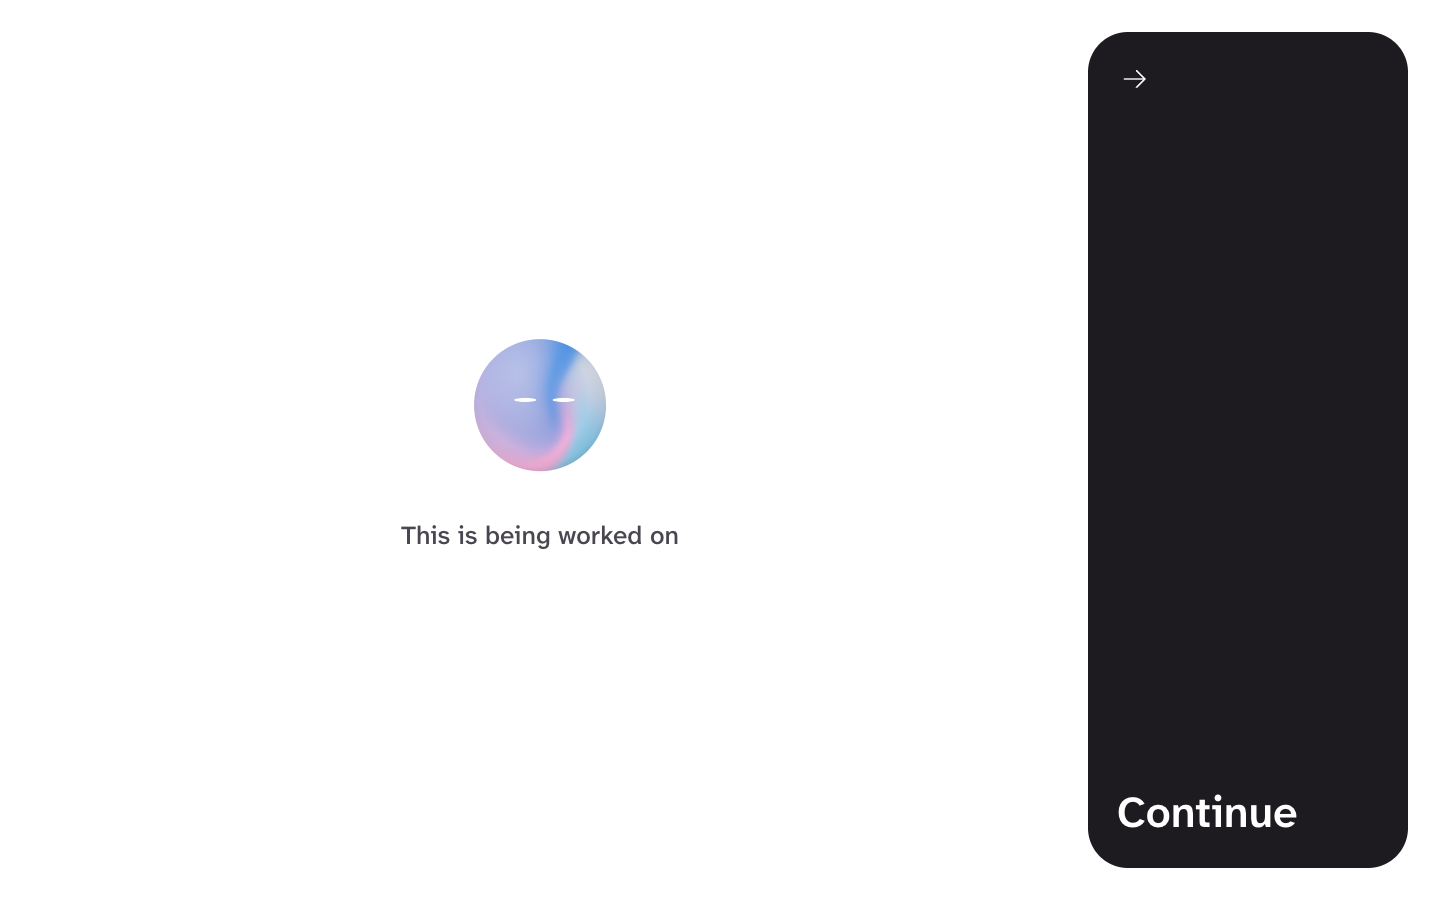
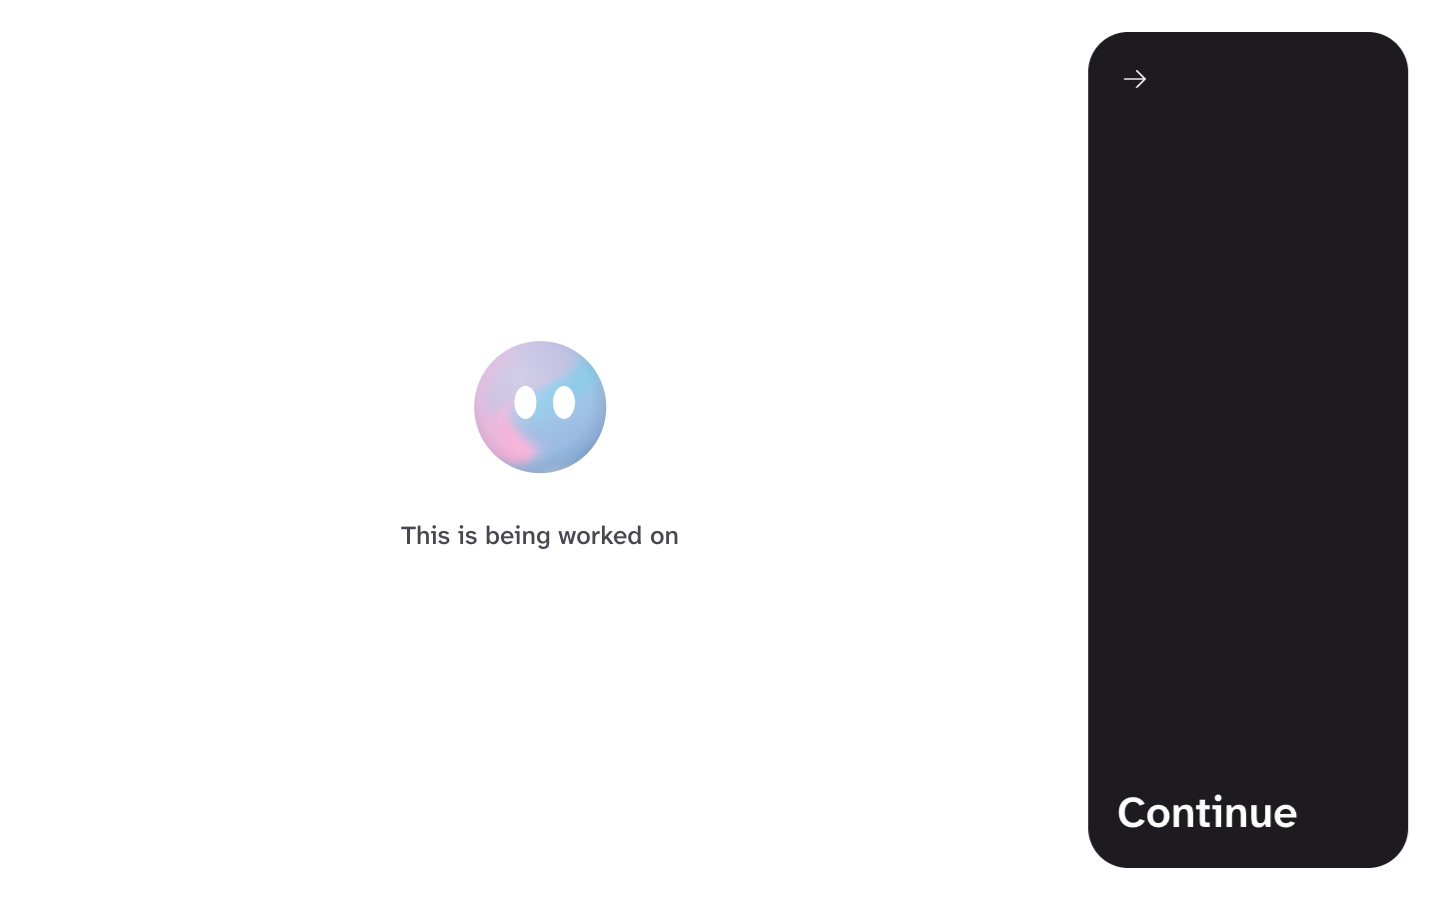
feat(main): look, then make a sound to select
A look closes the dwell line round a card and waits (the gaze engine's
confirm mode); a short vocal sound selects it, so looking around never
selects. src/soundSelect.ts measures the voice band with the browser's
noise suppression; the noise floor is the 20th percentile of the last
2 s, and a sound must rise 12 dB above it out of a quiet moment for
60 ms. While the partner is heard or the device speaks, or without a
microphone, looks select by dwell. Look + sound is the new default;
settings saved before it move to it once.

Changed region(s): [[0.3125, 0.3733, 0.4375, 0.5289]]

diff --git a/main/app/src/App.tsx b/main/app/src/App.tsx
@@ -50,6 +50,7 @@ import { PagedStrip, pageList, type Strip } from './Pager.tsx';
 import { OptionsFace } from './OptionsFace.tsx';
 import { OnboardingPage, onboardingSlots, tallCard } from './Onboarding.tsx';
 import { GuideOrb } from './GuideOrb.tsx';
+import { startSoundSelect, type SoundSelect } from './soundSelect.ts';
 import { cancelRun, eyesDrive, eyesStatus, prepareRun, startEyes, useEyesStatus } from './eyes/session.ts';
 import { Again, ArrowRight, Back, Backspace, Check, Erase, Close, Hand, MenuLines, Mic, Options, Sparkle, Speaker, StopSquare } from './icons.tsx';
 
@@ -68,10 +69,13 @@ function loadStored(): State {
   try {
     const raw = localStorage.getItem(STORE);
     if (!raw) return skip ? { ...INITIAL_STATE, screen: { kind: 'talk' } } : INITIAL_STATE;
-    const saved = JSON.parse(raw) as { settings?: Partial<Settings>; setupDone?: boolean };
+    const saved = JSON.parse(raw) as { settings?: Partial<Settings>; setupDone?: boolean; selection?: number };
+    const settings = migrate({ ...INITIAL_STATE.settings, ...saved.settings });
+    // Look + sound became the default on 2026-11-08; settings saved before then carry the old Dwell default.
+    if (saved.selection !== 2) { settings.mode = INITIAL_STATE.settings.mode; store({ selection: 2 }); }
     return {
       ...INITIAL_STATE,
-      settings: migrate({ ...INITIAL_STATE.settings, ...saved.settings }),
+      settings,
       screen: saved.setupDone || skip ? { kind: 'talk' } : INITIAL_STATE.screen,
     };
   } catch {
@@ -91,7 +95,7 @@ function setupDone(): boolean {
   try { return Boolean(JSON.parse(localStorage.getItem(STORE) ?? '{}').setupDone); } catch { return false; }
 }
 
-function store(patch: { settings?: Settings; setupDone?: boolean }): void {
+function store(patch: { settings?: Settings; setupDone?: boolean; selection?: number }): void {
   try {
     const current = JSON.parse(localStorage.getItem(STORE) ?? '{}');
     localStorage.setItem(STORE, JSON.stringify({ ...current, ...patch }));
@@ -263,15 +267,30 @@ export function App() {
   }, [noMatch]);
   const second = useSettled('delete', secondKey(slots.second), slots.second, looked, syncs);
 
+  // Look + sound (owner, 2026-11-08): a look closes the line round a card and a sound selects it.
+  // While the partner is heard or the device speaks, a sound could be theirs or its own, so looks
+  // select by dwell then; and without a microphone, always.
+  const [micReady, setMicReady] = useState(false);
+  useEffect(() => {
+    if (settings.mode !== 'confirm') return;
+    let sound: SoundSelect | null = null;
+    let stopped = false;
+    const onSound = () => { noteKeyActivation(false); engine.confirm(); };
+    const enabled = () => stateRef.current.live.kind !== 'listening' && stateRef.current.live.kind !== 'speaking';
+    startSoundSelect(onSound, enabled).then((s) => { if (stopped) s.stop(); else { sound = s; setMicReady(true); } }, () => setMicReady(false));
+    return () => { stopped = true; sound?.stop(); setMicReady(false); };
+  }, [settings.mode]);
+  const soundSelects = settings.mode === 'confirm' && micReady && live.kind !== 'listening' && live.kind !== 'speaking';
+
   // Settings → engine, document and audio (before paint, so a new text size never shows unfitted).
   useLayoutEffect(() => {
-    engine.configure({ mode: settings.mode, noiseSigma: settings.noise ? 0.06 : 0 });
+    engine.configure({ mode: soundSelects ? 'confirm' : 'dwell', noiseSigma: settings.noise ? 0.06 : 0 });
     setDwellClasses(settings.letterDwell, settings.controlDwell, screen.kind === 'talk', settings.repeat);
     document.documentElement.style.setProperty('--scale', String(settings.textScale));
     document.documentElement.toggleAttribute('data-large', settings.textScale > 1);
     configureSound({ level: settings.sound, volume: settings.volume });
     store({ settings });
-  }, [settings, screen.kind]);
+  }, [settings, screen.kind, soundSelects]);
 
   // Card text fits its card after every render (cheap when nothing changed), on resize and once
   // the webfont arrives.

diff --git a/main/app/src/soundSelect.ts b/main/app/src/soundSelect.ts
@@ -1,0 +1,82 @@
+/**
+ * Selecting by sound (owner, 2026-11-08): the eyes point, a sound commits. In the gaze engine's
+ * confirm mode a steady look closes the dwell line round a card and waits; any short vocal sound
+ * (an "ah", a hum, a word) then selects it.
+ *
+ * Background noise. The microphone runs with the browser's noise suppression and echo
+ * cancellation, and only the voice band (150 Hz to 3 kHz) is measured. The noise floor is the
+ * level the room sits at most of the time (the 20th percentile of the last 2 s), so a fan, traffic
+ * or a steady hum set the baseline instead of triggering, and a voice cannot drag it up. A sound counts only when it rises ONSET_DB
+ * above that floor out of a quiet moment and stays there for ONSET_MS; after it, the level must
+ * settle before the next one counts, so one long sound selects once.
+ */
+
+/** How far above the noise floor a sound must rise, and for how long. */
+const ONSET_DB = 12;
+const ONSET_MS = 60;
+/** Quiet (within QUIET_DB of the floor) needed just before a sound and after one. */
+const QUIET_DB = 6;
+const QUIET_BEFORE_MS = 150;
+const SETTLE_MS = 150;
+/** Below this level nothing counts, however quiet the room. */
+const MIN_DB = -62;
+const FRAME_MS = 20;
+/** The noise floor: this percentile of the last FLOOR_FRAMES levels. */
+const FLOOR_FRAMES = 2000 / FRAME_MS;
+const FLOOR_PERCENTILE = 0.2;
+
+export type SoundSelect = { stop(): void };
+
+/**
+ * Listen for sounds and call `onSound` at each one, while `enabled()` is true. Rejects when the
+ * microphone is unavailable or blocked.
+ */
+export async function startSoundSelect(onSound: () => void, enabled: () => boolean): Promise<SoundSelect> {
+  const stream = await navigator.mediaDevices.getUserMedia({ audio: { echoCancellation: true, noiseSuppression: true, autoGainControl: false } });
+  const ctx = new AudioContext();
+  const source = ctx.createMediaStreamSource(stream);
+  const highpass = new BiquadFilterNode(ctx, { type: 'highpass', frequency: 150 });
+  const lowpass = new BiquadFilterNode(ctx, { type: 'lowpass', frequency: 3000 });
+  const analyser = new AnalyserNode(ctx, { fftSize: 1024 });
+  source.connect(highpass).connect(lowpass).connect(analyser);
+  const samples = new Float32Array(analyser.fftSize);
+
+  const recent: number[] = [];
+  let quietFor = 0;
+  let loudFor = 0;
+  let armed = true;
+  const tick = () => {
+    if (ctx.state === 'suspended') void ctx.resume();
+    analyser.getFloatTimeDomainData(samples);
+    let sum = 0;
+    for (const v of samples) sum += v * v;
+    const db = 10 * Math.log10(sum / samples.length + 1e-12);
+    if (db < -110) return; // the stream has not started
+    recent.push(db);
+    if (recent.length > FLOOR_FRAMES) recent.shift();
+    const floor = [...recent].sort((a, b) => a - b)[Math.floor(recent.length * FLOOR_PERCENTILE)];
+    const loud = db > floor + ONSET_DB && db > MIN_DB;
+    const quiet = db < floor + QUIET_DB;
+    loudFor = loud ? loudFor + FRAME_MS : 0;
+    if (!armed) {
+      quietFor = quiet ? quietFor + FRAME_MS : 0;
+      if (quietFor >= SETTLE_MS) armed = true;
+      return;
+    }
+    if (loudFor >= ONSET_MS && quietFor >= QUIET_BEFORE_MS) {
+      armed = false;
+      quietFor = 0;
+      if (enabled()) onSound();
+      return;
+    }
+    if (!loud) quietFor = quiet ? quietFor + FRAME_MS : 0;
+  };
+  const timer = window.setInterval(tick, FRAME_MS);
+  return {
+    stop() {
+      window.clearInterval(timer);
+      stream.getTracks().forEach((t) => t.stop());
+      void ctx.close();
+    },
+  };
+}

diff --git a/main/app/src/Menu.tsx b/main/app/src/Menu.tsx
@@ -30,7 +30,7 @@ const CYCLES = {
   textScale: { key: 'textScale', name: 'Text size', values: [1, 1.25, 1.5, 1.75, 2], format: (v: number) => `${Math.round(v * 100)}%` },
   sound: { key: 'sound', name: 'Sounds', values: ['all', 'fewer', 'off'], format: (v: string) => ({ all: 'All', fewer: 'Fewer', off: 'Off' })[v] ?? v },
   volume: { key: 'volume', name: 'Volume', values: [0.25, 0.5, 0.75, 1], format: (v: number) => `${Math.round(v * 100)}%` },
-  mode: { key: 'mode', name: 'Selection', values: ['dwell', 'confirm'], format: (v: string) => (v === 'dwell' ? 'Dwell' : 'Confirm') },
+  mode: { key: 'mode', name: 'Selection', values: ['confirm', 'dwell'], format: (v: string) => (v === 'dwell' ? 'Dwell' : 'Look + sound') },
   wordColours: { key: 'wordColours', name: 'Word colours', values: [false, true], format: onOff },
   suggestions: { key: 'suggestions', name: 'Suggested replies', values: [true, false], format: onOff },
   noise: { key: 'noise', name: 'Gaze noise', values: [false, true], format: onOff },

diff --git a/main/app/src/model.ts b/main/app/src/model.ts
@@ -70,7 +70,7 @@ export const DEFAULT_SETTINGS: Settings = {
   textScale: 1,
   sound: 'all',
   volume: 0.75,
-  mode: 'dwell',
+  mode: 'confirm',
   wordColours: false,
   suggestions: true,
   noise: false,

diff --git a/main/README.md b/main/README.md
@@ -30,7 +30,8 @@ On later launches the app opens on the conversation screen and restores the save
 
 ## Input
 
-- **Eyes**, by default. Looks come from the webcam tracker. While the tracker is not calibrated, the mouse stands in.
+- **Eyes, then a sound**, by default (Menu › Settings › Dwell › Selection: **Look + sound**). A look closes the line round a card and waits. A short vocal sound (an "ah", a hum, a word) then selects it, so looking around never selects anything. The microphone runs with noise suppression, and the noise floor follows the room, so steady background noise does not select. While the partner is heard or Clarté speaks, and when the microphone is blocked, looks select by dwell instead. **Dwell** makes a long enough look select, as before.
+- **Eyes** drive looks from the webcam tracker. While the tracker is not calibrated, the mouse stands in.
 - **Mouse.** Add `?input=mouse` for no camera. Pointer position is the look. **Use the mouse** after a camera failure does the same for the session.
 - **Keys and clicks**, always. Keys 1 to 8 select the quadrant with that number, and a click selects a card.
 
@@ -43,6 +44,7 @@ Run these in `main/app` while `./clarte ui` runs:
 - `node scripts/selftest.ts` checks the gaze engine, the quadrant rules and the composer.
 - `npm run check` puts every debug phase through the backend-quadrant layout check at four window sizes.
 - `node scripts/e2e-first-run.mjs` drives the first run in Chromium on a fake camera. It needs Gaze Lab's face fixture (`npm run fixture` in `prototypes/Gaze Lab`). A photo cannot move its eyes, so this check proves the plumbing, not gaze accuracy.
+- `node scripts/e2e-sound-select.mjs` checks Look + sound on a fake microphone: a look arms a card, steady noise does not select, and a short "ah" does.
 - `npx tsc --noEmit -p tsconfig.json` typechecks the app.
 
 ## Where things live in the app
